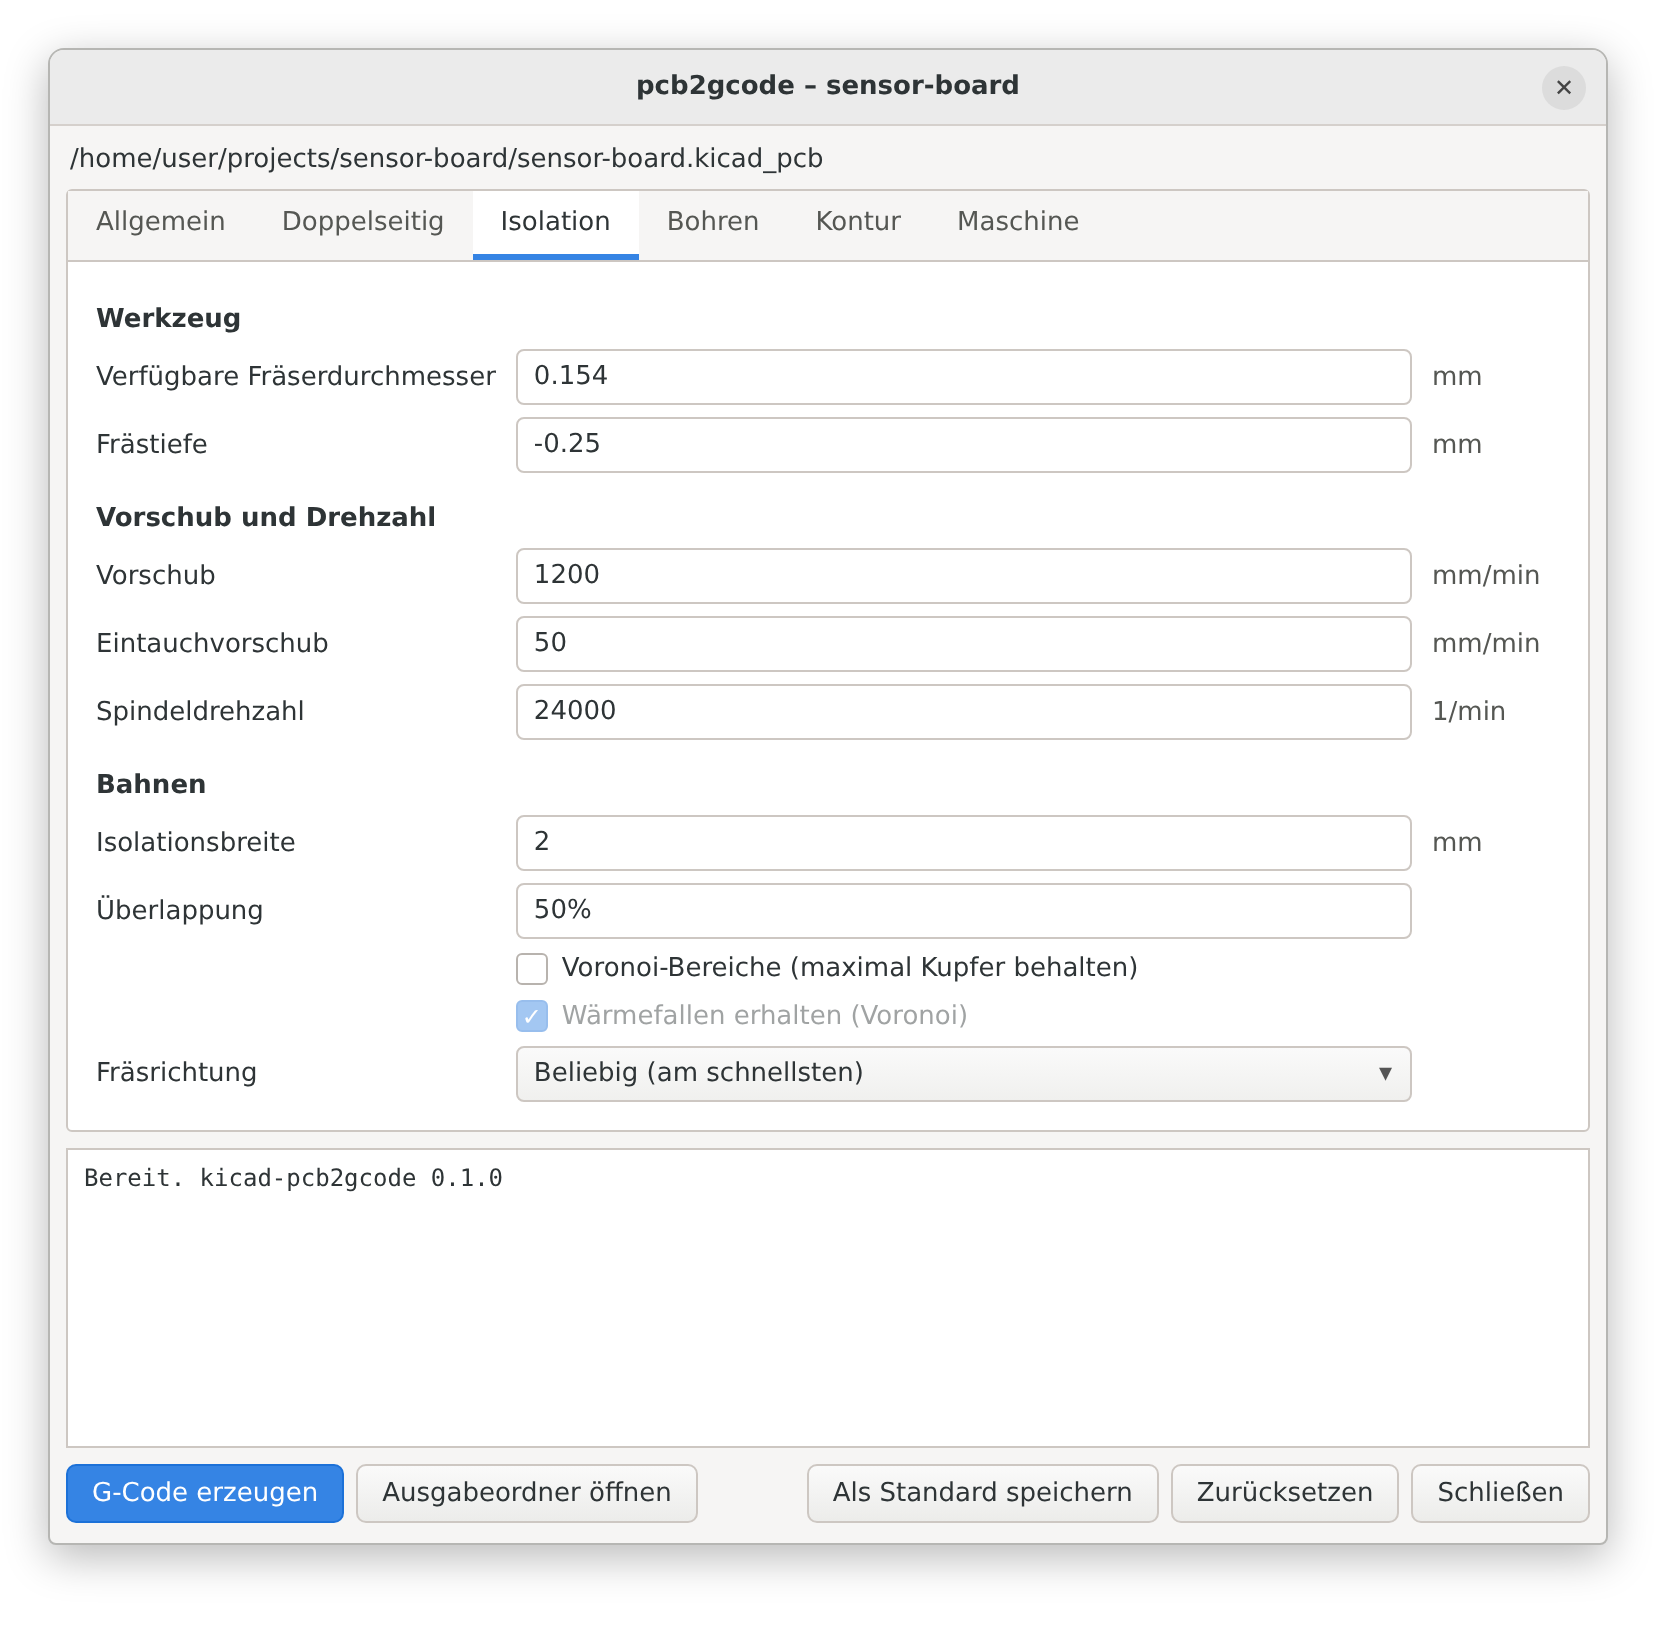
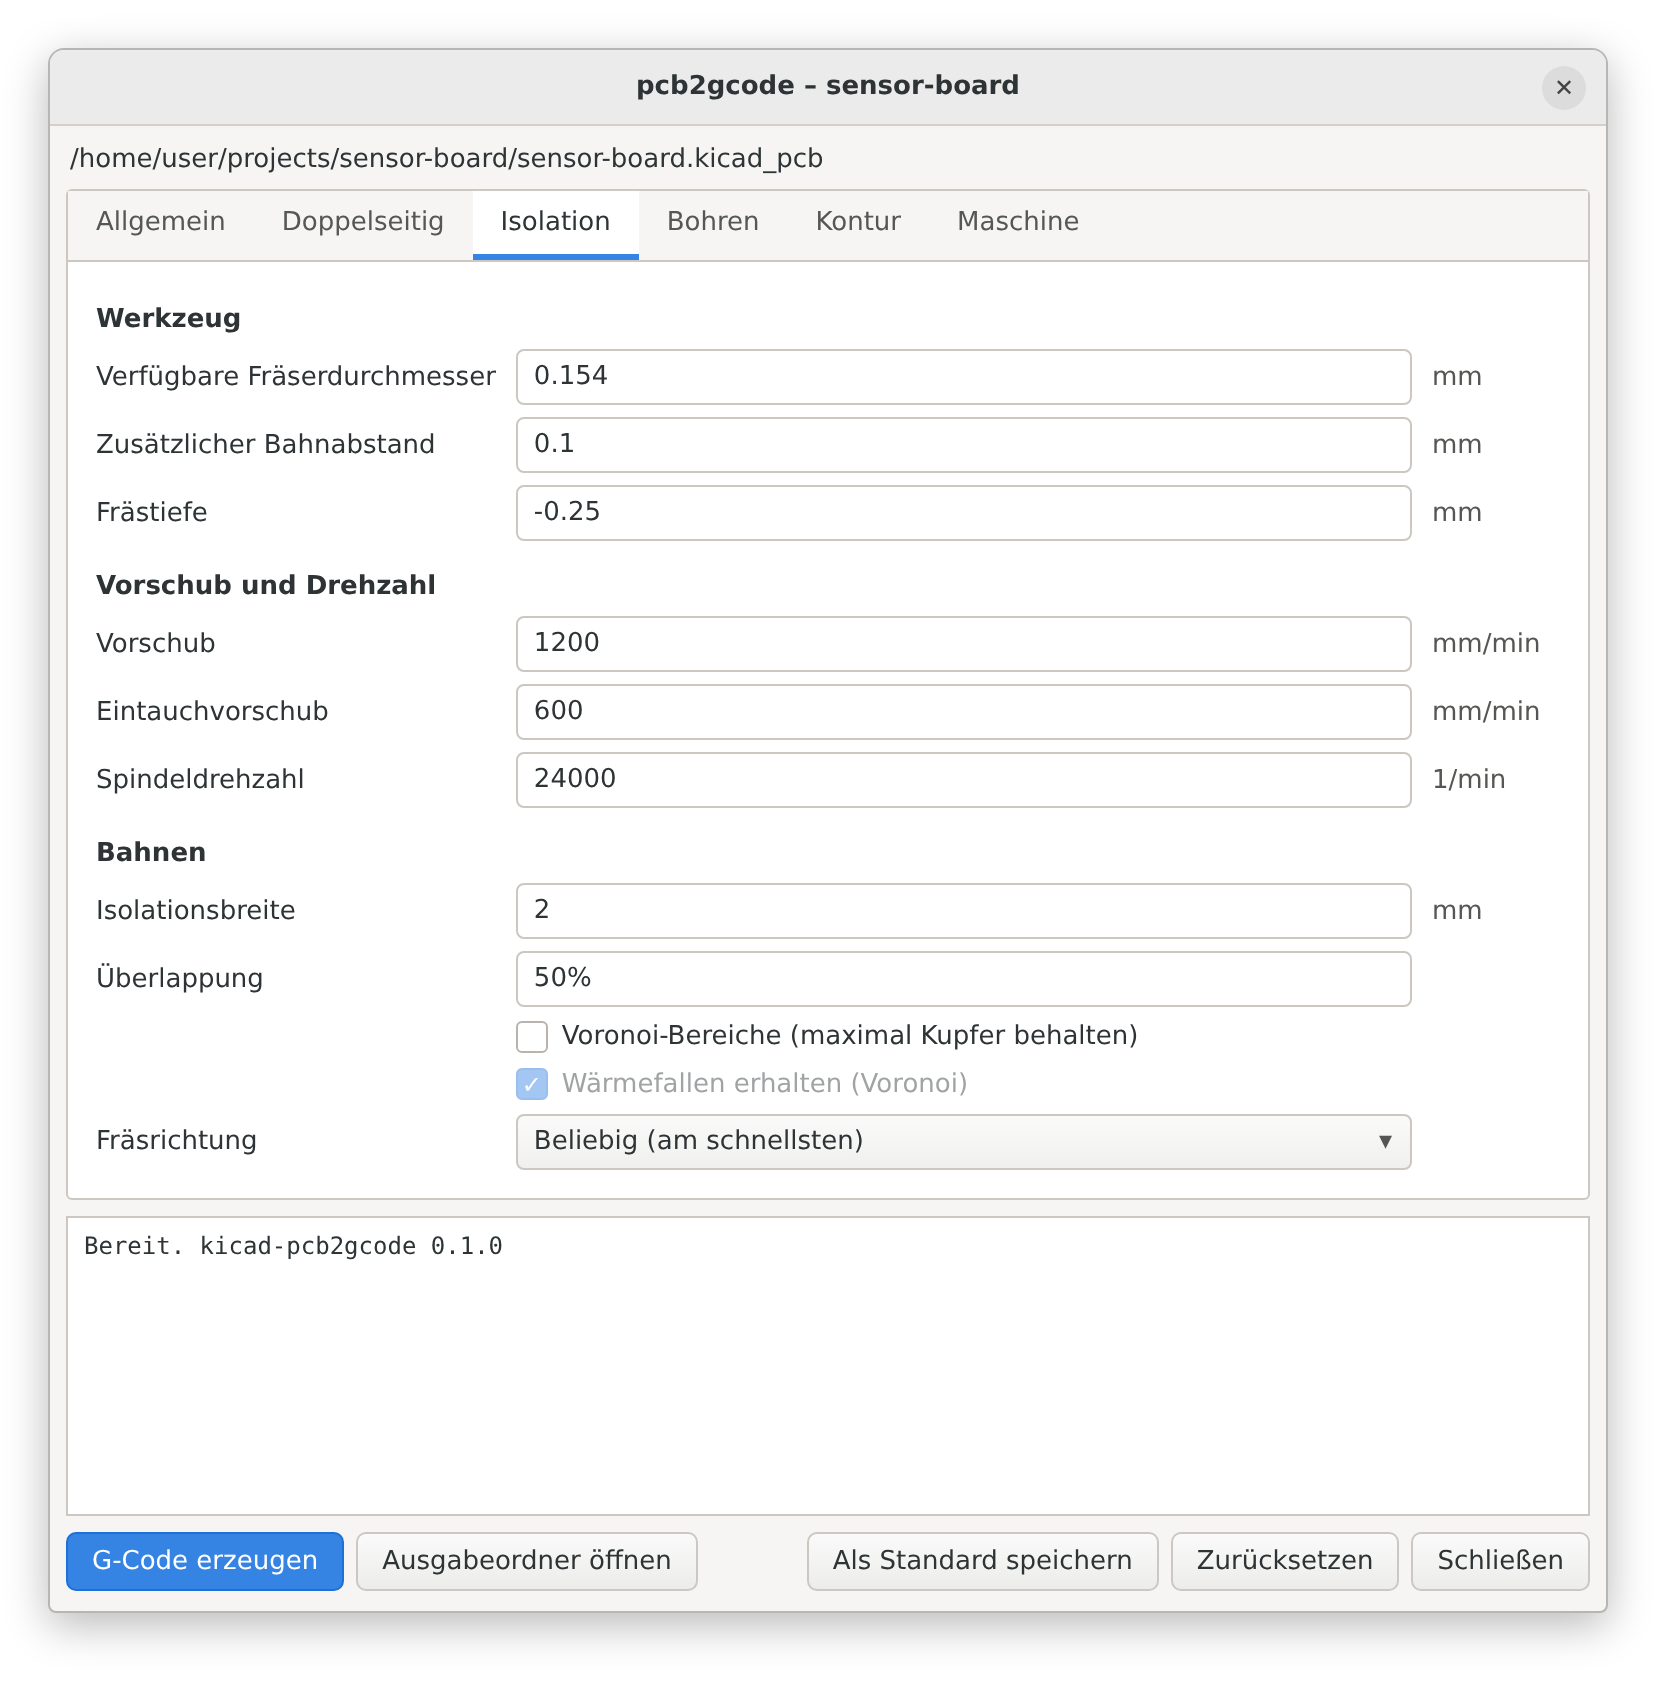
Take the defaults from a proven pcb2gcodeGUI setup
Defaults now follow the user's pcb2gcodeGUI configuration: zsafe 5,
zchange 10, mill diameter 0.154 at -0.25 with 2 mm isolation width,
1200 mm/min at 24000 rpm, drilling -2.5 at 300 mm/min with one drill,
outline with a 1.5 mm cutter in one 2.5 mm pass and two 0.5 mm tabs.
Values the config left to pcb2gcode are written with pcb2gcode's own
defaults (plunge = half the feed, 50 % overlap, two tabs).

- new "Toolpath offset" field: pcb2gcode's offset is not obsolete but an
  extra distance kept from the copper, used next to mill-diameters
- new "Path tolerance" field (0.01 mm)
- "No G91.1" is off by default: GRBL understands G91.1
- a test checks the defaults against that configuration

Claude-Session: https://claude.ai/code/session_01PpFE8sBd2hR1uK4Xvk6eWU

diff --git a/tests/test_millproject.py b/tests/test_millproject.py
@@ -10,29 +10,77 @@ def options(settings=None, inputs=ALL):
     return dict(build_options(settings or Settings(), inputs, "board"))
 
 
+# The pcb2gcodeGUI configuration the defaults are taken from (Common, Mill,
+# Drill and Outline sections; the autoleveller is not used with GRBL).
+PCB2GCODEGUI_CONFIG = """
+metric=true
+metricoutput=true
+nog64=true
+tolerance=0.0100
+zchange=10.0000
+zsafe=5.0000
+isolation-width=2.0000
+mill-diameters=0.154
+mill-feed=1200
+mill-speed=24000
+offset=0.1000
+zwork=-0.2500
+drill-feed=300
+drill-speed=24000
+nog81=true
+onedrill=true
+zdrill=-2.5000
+bridges=0.5000
+cut-feed=800
+cut-infeed=2.5000
+cut-speed=24000
+cut-vertfeed=60
+cutter-diameter=1.5000
+zbridges=-0.6000
+zcut=-2.5000
+"""
+# zero-start=true: replaced by exact x-offset/y-offset on the board outline
+
+
+def test_defaults_match_the_pcb2gcodegui_config():
+    opts = options()
+    for line in PCB2GCODEGUI_CONFIG.strip().splitlines():
+        key, value = line.split("=")
+        assert key in opts, key
+        if value in ("true", "false"):
+            assert opts[key] == value, key
+        else:
+            assert float(opts[key]) == float(value), (key, opts[key])
+    # values the config left to pcb2gcode's defaults, written explicitly here
+    assert opts["mill-vertfeed"] == "600"  # pcb2gcode: half the feed rate
+    assert opts["milling-overlap"] == "50%"
+    assert opts["bridgesnum"] == "2"
+
+
 def test_defaults_are_grbl_safe():
     opts = options()
-    assert opts["metric"] == "true"
-    assert opts["metricoutput"] == "true"
-    for key in ("nog64", "nog81", "nog91-1", "nom6"):
+    for key in ("nog64", "nog81", "nom6"):  # GRBL knows neither G64, G81 nor M6
         assert opts[key] == "true", key
+    assert "nog91-1" not in opts  # GRBL understands G91.1
     assert opts["output-dir"] == "."
     assert opts["basename"] == "board"
 
 
-def test_inputs_and_sections():
+def test_inputs():
     opts = options()
     assert opts["front"] == "cam/front.gbr"
     assert opts["back"] == "cam/back.gbr"
     assert opts["drill"] == "cam/drill.drl"
     assert opts["outline"] == "cam/outline.gbr"
-    assert opts["zwork"] == "-0.08"
-    assert opts["mill-diameters"] == "0.15"
-    assert opts["isolation-width"] == "0.3"
-    assert opts["milling-overlap"] == "20%"
     assert opts["fill-outline"] == "true"
-    assert opts["bridgesnum"] == "4"
-    assert opts["zbridges"] == "-1"
+
+
+def test_offset_and_tolerance_can_be_switched_off():
+    s = Settings()
+    s.isolation.offset = 0
+    s.machine.tolerance = 0
+    opts = options(s)
+    assert "offset" not in opts and "tolerance" not in opts
 
 
 def test_sections_are_omitted_without_inputs():
@@ -49,7 +97,7 @@ def test_single_pass():
     s = Settings()
     s.isolation.isolation_width = 0
     opts = options(s)
-    assert opts["mill-diameters"] == "0.15"
+    assert opts["mill-diameters"] == "0.154"
     assert "isolation-width" not in opts
     assert "milling-overlap" not in opts
 
@@ -80,10 +128,11 @@ def test_optional_drill_options():
     s.drill.drill_side = "back"
     opts = options(s)
     assert opts["drills-available"] == "0.8,1,1.2"
-    assert opts["milldrill-diameter"] == "1"
-    assert opts["min-milldrill-hole-diameter"] == "1.5"
+    assert opts["milldrill-diameter"] == "3"
+    assert opts["min-milldrill-hole-diameter"] == "3"
+    assert opts["zmilldrill"] == "-2.5"
     assert opts["drill-side"] == "back"
-    assert "onedrill" not in opts
+    assert opts["onedrill"] == "true"
 
 
 def test_no_tabs():
@@ -137,6 +186,8 @@ def test_validate_accepts_defaults():
         (lambda s: setattr(s.outline, "zcut", 0), "zcut_negative"),
         (lambda s: setattr(s.outline, "zbridges", -5), "bridges_invalid"),
         (lambda s: setattr(s.outline, "cut_infeed", 0), "infeed_positive"),
+        (lambda s: setattr(s.isolation, "offset", -0.1), "offset_range"),
+        (lambda s: setattr(s.machine, "tolerance", -1), "tolerance_range"),
     ],
 )
 def test_validate_reports_problems(mutate, problem):

diff --git a/plugin/kicad_pcb2gcode/settings.py b/plugin/kicad_pcb2gcode/settings.py
@@ -51,8 +51,8 @@ class GeneralSettings:
     # and the pre-cut blank is turned over inside it. The outline is not cut,
     # holes are drilled from the top before turning.
     frame_mode: bool = False
-    zsafe: float = 2.0
-    zchange: float = 20.0
+    zsafe: float = 5.0
+    zchange: float = 10.0
     open_folder_after: bool = False
 
 
@@ -62,8 +62,9 @@ class MachineSettings:
 
     nog64: bool = True  # GRBL has no G64 path blending
     nog81: bool = True  # GRBL has no canned drilling cycles
-    nog91_1: bool = True  # GRBL has no G91.1
+    nog91_1: bool = False  # GRBL understands G91.1; some other controllers do not
     nom6: bool = True  # GRBL 1.1 rejects M6; grblHAL with a tool changer can use it
+    tolerance: float = 0.01  # allowed deviation from the ideal path, mm (0 = pcb2gcode's default)
     extra_options: str = ""  # raw millproject lines, appended verbatim
 
 
@@ -71,13 +72,16 @@ class MachineSettings:
 class IsolationSettings:
     # Width the tool cuts at the milling depth, as pcb2gcode's mill-diameters:
     # one value, or several (comma separated) to clear wider areas with more tools.
-    mill_diameters: str = "0.15"
-    zwork: float = -0.08
-    mill_feed: float = 200.0
-    mill_vertfeed: float = 50.0
-    mill_speed: float = 10000.0
-    isolation_width: float = 0.3  # 0 = a single pass around each trace
-    milling_overlap: str = "20%"  # percent of the tool width, or a length like "0.05mm"
+    mill_diameters: str = "0.154"
+    # Extra distance kept between tool path and copper, for a bit with a little slop
+    # (pcb2gcode's "offset", "Toolpath offset" in pcb2gcodeGUI).
+    offset: float = 0.1
+    zwork: float = -0.25
+    mill_feed: float = 1200.0
+    mill_vertfeed: float = 600.0  # pcb2gcode's own default is half the feed rate
+    mill_speed: float = 24000.0
+    isolation_width: float = 2.0  # 0 = a single pass around each trace
+    milling_overlap: str = "50%"  # percent of the tool width, or a length like "0.05mm"
     voronoi: bool = False
     preserve_thermal_reliefs: bool = True  # Voronoi mode only
     mill_feed_direction: str = "any"
@@ -85,30 +89,30 @@ class IsolationSettings:
 
 @dataclass
 class DrillSettings:
-    zdrill: float = -1.8
-    drill_feed: float = 60.0
-    drill_speed: float = 10000.0
+    zdrill: float = -2.5
+    drill_feed: float = 300.0
+    drill_speed: float = 24000.0
     drill_side: str = "auto"
     drills_available: str = ""  # e.g. "0.8, 1.0, 1.2"; empty = one tool per hole size
-    onedrill: bool = False
+    onedrill: bool = True
     milldrill: bool = False  # mill large holes with a small end mill
-    milldrill_diameter: float = 1.0
-    min_milldrill_hole_diameter: float = 1.5
-    zmilldrill: float = -1.8
+    milldrill_diameter: float = 3.0
+    min_milldrill_hole_diameter: float = 3.0
+    zmilldrill: float = -2.5
 
 
 @dataclass
 class OutlineSettings:
-    cutter_diameter: float = 1.0
-    zcut: float = -1.8
-    cut_infeed: float = 0.6
-    cut_feed: float = 100.0
-    cut_vertfeed: float = 40.0
-    cut_speed: float = 10000.0
+    cutter_diameter: float = 1.5
+    zcut: float = -2.5
+    cut_infeed: float = 2.5
+    cut_feed: float = 800.0
+    cut_vertfeed: float = 60.0
+    cut_speed: float = 24000.0
     cut_side: str = "auto"
-    bridges: float = 2.0  # tab width in mm
-    bridgesnum: int = 4  # 0 = no tabs
-    zbridges: float = -1.0
+    bridges: float = 0.5  # tab width in mm
+    bridgesnum: int = 2  # 0 = no tabs
+    zbridges: float = -0.6
 
 
 SECTIONS = ("general", "machine", "isolation", "drill", "outline")

diff --git a/plugin/kicad_pcb2gcode/form.py b/plugin/kicad_pcb2gcode/form.py
@@ -90,6 +90,9 @@ PAGES: List[Tuple[Tuple[str, str], List[Row]]] = [
                    "clear wider areas with additional tools.",
                    "Breite, die das Werkzeug in der Frästiefe schneidet. Mehrere mit Komma getrennt "
                    "(z. B. 0.15, 0.4) räumen breitere Bereiche mit weiteren Werkzeugen.")),
+        Field("isolation", "offset", ("Toolpath offset", "Zusätzlicher Bahnabstand"), "float", "mm",
+              tip=("Extra distance between tool path and copper, for a bit with a little slop.",
+                   "Zusätzlicher Abstand zwischen Fräsbahn und Kupfer, falls der Fräser etwas Schlag hat.")),
         Field("isolation", "zwork", ("Milling depth", "Frästiefe"), "float", "mm",
               tip=("Negative, e.g. -0.08", "Negativ, z. B. -0,08")),
         Heading(("Feeds and speeds", "Vorschub und Drehzahl")),
@@ -143,10 +146,15 @@ PAGES: List[Tuple[Tuple[str, str], List[Row]]] = [
         Heading(("G-code dialect (defaults suit GRBL)", "G-Code-Dialekt (Voreinstellung passt für GRBL)")),
         Field("machine", "nog64", ("No G64 (path blending)", "Kein G64 (Bahnüberschleifen)"), "bool"),
         Field("machine", "nog81", ("No G81 (drilling cycle)", "Kein G81 (Bohrzyklus)"), "bool"),
-        Field("machine", "nog91_1", ("No G91.1", "Kein G91.1"), "bool"),
+        Field("machine", "nog91_1", ("No G91.1", "Kein G91.1"), "bool",
+              tip=("GRBL understands G91.1. Tick only for controllers that do not.",
+                   "GRBL versteht G91.1. Nur für Steuerungen ankreuzen, die es nicht kennen.")),
         Field("machine", "nom6", ("No M6 (tool change)", "Kein M6 (Werkzeugwechsel)"), "bool",
               tip=("GRBL 1.1 rejects M6. Turn off for grblHAL with a tool changer.",
                    "GRBL 1.1 lehnt M6 ab. Für grblHAL mit Werkzeugwechsler ausschalten.")),
+        Field("machine", "tolerance", ("Path tolerance", "Bahntoleranz"), "float", "mm",
+              tip=("Allowed deviation from the ideal path. 0 = pcb2gcode's default.",
+                   "Erlaubte Abweichung von der idealen Bahn. 0 = Voreinstellung von pcb2gcode.")),
         Heading(("Extra pcb2gcode options", "Zusätzliche pcb2gcode-Optionen")),
         Field("machine", "extra_options", ("One option per line", "Eine Option pro Zeile"), "multiline",
               tip=("e.g. spinup-time=3 - overrides generated options of the same name.",

diff --git a/plugin/kicad_pcb2gcode/millproject.py b/plugin/kicad_pcb2gcode/millproject.py
@@ -58,6 +58,8 @@ def validate(settings: Settings, inputs: Inputs) -> List[str]:
         problems.append("zsafe_positive")
     if g.zchange <= 0:
         problems.append("zchange_positive")
+    if settings.machine.tolerance < 0:
+        problems.append("tolerance_range")
     if g.frame_mode and inputs.board_box is None:
         problems.append("frame_needs_outline")
     if inputs.mills:
@@ -75,6 +77,8 @@ def validate(settings: Settings, inputs: Inputs) -> List[str]:
             problems.append("overlap_invalid")
         if iso.isolation_width < 0:
             problems.append("isolation_width_range")
+        if iso.offset < 0:
+            problems.append("offset_range")
     if inputs.drill:
         if d.zdrill >= 0:
             problems.append("zdrill_negative")
@@ -163,6 +167,8 @@ def build_options(settings: Settings, inputs: Inputs, basename: str) -> List[Tup
     for key, enabled in (("nog64", m.nog64), ("nog81", m.nog81), ("nog91-1", m.nog91_1), ("nom6", m.nom6)):
         if enabled:
             add(key, True)
+    if m.tolerance > 0:
+        add("tolerance", m.tolerance)
 
     # -- isolation milling -------------------------------------------------
     if inputs.front:
@@ -173,6 +179,8 @@ def build_options(settings: Settings, inputs: Inputs, basename: str) -> List[Tup
         sizes = mill_diameters(settings)
         add("zwork", iso.zwork)
         add("mill-diameters", ",".join(fmt(d) for d in sizes))
+        if iso.offset > 0:
+            add("offset", iso.offset)
         add("mill-feed", iso.mill_feed)
         add("mill-vertfeed", iso.mill_vertfeed)
         add("mill-speed", iso.mill_speed)

diff --git a/plugin/kicad_pcb2gcode/i18n.py b/plugin/kicad_pcb2gcode/i18n.py
@@ -70,6 +70,8 @@ PROBLEMS = {
                                "Fräserdurchmesser: eine oder mehrere positive Zahlen mit Komma getrennt, z. B. 0.15."),
     "overlap_invalid": ("Overlap: a percentage below 100 (e.g. 20%) or a length (e.g. 0.05mm).",
                         "Überlappung: Prozentwert unter 100 (z. B. 20%) oder eine Länge (z. B. 0.05mm)."),
+    "offset_range": ("Toolpath offset must not be negative.", "Zusätzlicher Bahnabstand darf nicht negativ sein."),
+    "tolerance_range": ("Path tolerance must not be negative.", "Bahntoleranz darf nicht negativ sein."),
     "feed_positive": ("Feed rates must be positive.", "Vorschübe müssen positiv sein."),
     "isolation_width_range": ("Isolation width must not be negative.", "Isolationsbreite darf nicht negativ sein."),
     "zdrill_negative": ("Drill depth must be below zero.", "Bohrtiefe muss unter null liegen."),

diff --git a/scripts/render_previews.py b/scripts/render_previews.py
@@ -182,12 +182,6 @@ def render(lang: str) -> None:
     shots = [("general", titles.index("General"), defaults, ready)]
 
     iso = Settings()
-    iso.isolation.mill_diameters = "0.154"
-    iso.isolation.zwork = -0.25
-    iso.isolation.mill_feed = 1200
-    iso.isolation.mill_speed = 24000
-    iso.isolation.isolation_width = 2.0
-    iso.isolation.milling_overlap = "50%"
     shots.append(("isolation", titles.index("Isolation"), iso, ready))
 
     frame = Settings()

diff --git a/README.de.md b/README.de.md
@@ -72,10 +72,13 @@ Board öffnen, Toolbar-Button drücken, Einstellungen prüfen,
 * **Kontur** – Fräser, Zustellung pro Durchgang, Haltestege.
 * **Maschine** – G-Code-Dialekt und zusätzliche pcb2gcode-Optionen.
 
-Die Voreinstellungen passen für eine kleine GRBL-Fräse (3018-Klasse) mit
-einem V-Bit, das in 0,08 mm Tiefe 0,15 mm breit schneidet, und einem
-1-mm-Fräser. **Prüfe die Werte immer gegen deine Werkzeuge und
-fahre neue Einstellungen zuerst in der Luft ab.**
+Die Voreinstellungen stammen aus einer bewährten pcb2gcodeGUI-Einstellung
+für eine GRBL-Fräse mit 24 000 1/min: ein Gravierstichel, der in 0,25 mm Tiefe
+0,154 mm breit schneidet (2 mm Isolationsbreite, 0,1 mm zusätzlicher
+Bahnabstand), ein Bohrer für alle Löcher, ein 1,5-mm-Fräser für die Kontur in
+einem Durchgang von 2,5 mm mit zwei Haltestegen à 0,5 mm.
+**Prüfe die Werte immer gegen deine Werkzeuge und fahre neue Einstellungen
+zuerst in der Luft ab.**
 
 ### Ausgabe
 
@@ -99,9 +102,10 @@ Senders.
 ### Hinweise zu GRBL
 
 Die Voreinstellungen schalten ab, was GRBL nicht kennt: `G64`
-(Bahnüberschleifen), `G81` (Bohrzyklus), `G91.1` und `M6`
-(Werkzeugwechsel). Mit grblHAL und Werkzeugwechsler lässt sich `M6` im Reiter
-**Maschine** wieder einschalten.
+(Bahnüberschleifen), `G81` (Bohrzyklus) und `M6` (Werkzeugwechsel). Mit grblHAL
+und Werkzeugwechsler lässt sich `M6` im Reiter **Maschine** wieder
+einschalten. `G91.1` versteht GRBL; *Kein G91.1* ist für Steuerungen gedacht,
+die es nicht kennen.
 
 ### Nullpunkt und doppelseitige Platinen
 

diff --git a/README.md b/README.md
@@ -70,9 +70,12 @@ Open a board, press the toolbar button, check the settings, press
 * **Outline** – cutter, depth per pass, holding tabs.
 * **Machine** – G-code dialect switches and extra pcb2gcode options.
 
-The defaults suit a small GRBL router (3018 class) with a V-bit cutting
-0.15 mm wide at 0.08 mm depth and a 1 mm end mill. **Always check the numbers against your tools and air-cut new
-settings first.**
+The defaults come from a proven pcb2gcodeGUI setup on a GRBL machine with a
+24 000 rpm spindle: an engraving bit cutting 0.154 mm wide at 0.25 mm depth
+(2 mm isolation width, 0.1 mm extra offset), one drill size, a 1.5 mm end mill
+for the outline cut in a single 2.5 mm pass with two 0.5 mm tabs.
+**Always check the numbers against your tools and air-cut new settings
+first.**
 
 ### Output
 
@@ -95,8 +98,9 @@ height-map feature of your sender instead.
 ### GRBL notes
 
 The defaults switch off what GRBL does not understand: `G64` (path blending),
-`G81` (drilling cycle), `G91.1` and `M6` (tool change). With grblHAL and a
-tool changer you can turn `M6` back on in the **Machine** tab.
+`G81` (drilling cycle) and `M6` (tool change). With grblHAL and a tool
+changer you can turn `M6` back on in the **Machine** tab. GRBL does
+understand `G91.1`; *No G91.1* is there for controllers that do not.
 
 ### Origin and double-sided boards
 
